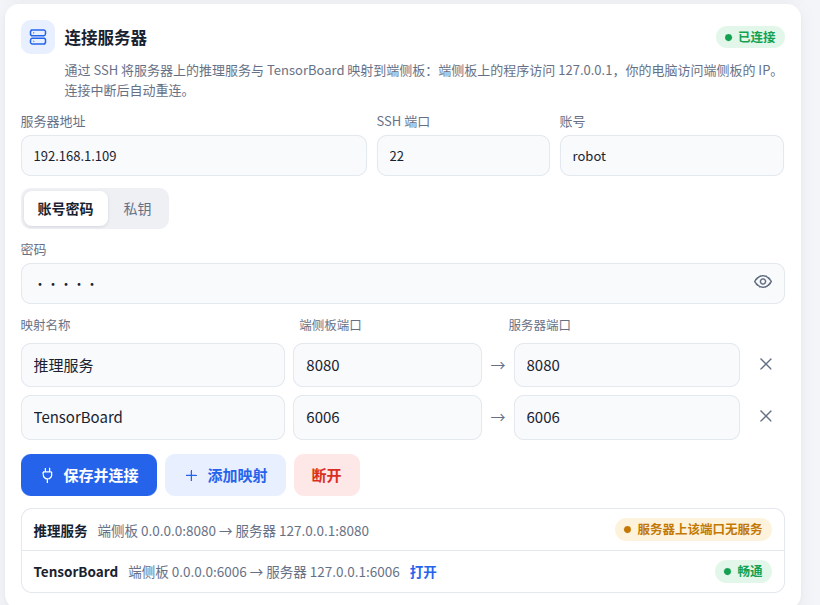
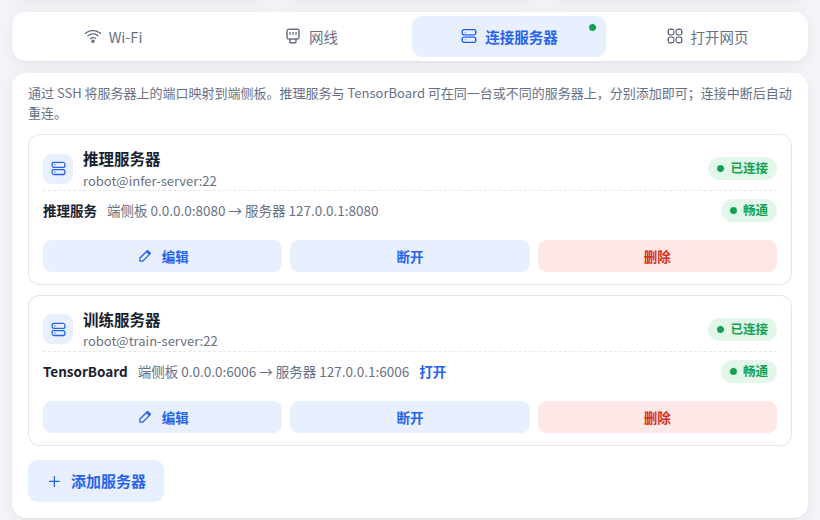
docs: 端侧板章节按分页配网页、多台服务器与有线默认地址 192.168.50.1 更新
- board.md：配网页改为分页（Wi-Fi / 网线 / 连接服务器 / 打开网页）；1.4 连接训练电脑支持多台服务器（推理与 TensorBoard 可在不同机器）；有线默认 192.168.50.1/24；VS Code / Jupyter 换新示例
- index.md：展示条目改为「连接一台或多台训练电脑」
- train-env.md：两台机器分开时两边都开 SSH
- 截图全部按真板重拍

diff --git a/docs/board.md b/docs/board.md
@@ -7,6 +7,7 @@
 | 网址 | 用途 | 可打开的时机 |
 | --- | --- | --- |
 | `http://10.42.0.1` | 网络设置：连接 Wi-Fi、设置网线、连接训练电脑、查看 IP | 已连接端侧板热点时 |
+| `http://192.168.50.1:8001` | 同一个网络设置页，网线直连电脑时使用 | 网线为出厂设置时，见 [1.3 节](#board-network) |
 | `http://<端侧板IP>:8001` | 同一个网络设置页 | 端侧板开机后 |
 | `http://<端侧板IP>:8002` | 网页终端 | 服务开启时 |
 | `http://<端侧板IP>:8003` | JupyterLab | 服务开启时 |
@@ -17,7 +18,7 @@
 | `http://<端侧板IP>:6006` | 训练电脑上的 TensorBoard：训练曲线 | 端侧板已连接训练电脑时，见 [1.4 节](#connect-server) |
 | `http://<端侧板IP>:9090` | 录制预览：相机画面与关节曲线 | 录制数据期间 |
 
-8002 至 8006 默认全部开启，可用 `xbotics-config` 开关，见 [1.7 节](#xbotics-config)。端侧板的用户名是 `root`，默认密码是 `123456`，网页终端、JupyterLab、VS Code 与 SSH 均使用该密码。请只在自己的局域网中使用端侧板，不要将这些端口映射到公网。
+局域网中也可以用 `xbotics-XXXX.local` 代替 IP（后四位与热点名相同）。8002 至 8006 默认全部开启，可用 `xbotics-config` 开关，见 [1.7 节](#xbotics-config)。端侧板的用户名是 `root`，默认密码是 `123456`，网页终端、JupyterLab、VS Code 与 SSH 均使用该密码。请只在自己的局域网中使用端侧板，不要将这些端口映射到公网。
 
 ## 1.1 烧写镜像
 
@@ -87,45 +88,53 @@ xbotics-config update
 
 它将 LeRobot 更新到最新版本，再按新版重新安装端侧板上的其余内容，只修改有变化的部分。网页服务的开关、修改过的密码、你自行用 `uv add` 安装的包都会保留。也可以在网页终端或 VS Code 的终端中执行：需要重启这些服务时，会在升级完成后再重启，页面短暂断开，刷新即可。训练电脑需同步升级，见 [2.7 节](#train-env-upgrade)。
 
+(board-network)=
 ## 1.3 配网
 
 端侧板始终开启一个热点，名称为 `Xbotics-` 加四位字符（每块端侧板不同），无需密码。电脑或手机连接该热点后，会弹出「星禾套件 · 网络设置」页；如未弹出，在浏览器中打开 `http://10.42.0.1`。如果提示「此网络无法访问互联网」，请选择保持连接：该热点仅供此页面使用，本身不连通外网。
 
-页面顶部的三块信息每两秒刷新一次，右上角的标签显示状态：网线与 Wi-Fi 为绿色「可访问外网」、橙色「无法访问外网」或红色「未连接」，下方为获得的地址；本热点显示热点的名称与地址。在手机上打开时为单列，在电脑上打开时三块并排。
+页面顶部的三块状态卡每两秒刷新一次，右上角的标签显示状态：网线与 Wi-Fi 为绿色「可访问外网」、橙色「无法访问外网」或红色「未连接」，下方为获得的地址；本热点显示热点的名称与地址。状态卡下方是「Wi-Fi」「网线」「连接服务器」「打开网页」四个标签，一次显示一项设置；网址末尾的 `#wifi`、`#wired`、`#server`、`#open` 可直接打开对应标签，例如 `http://10.42.0.1/#server`。
 
-![网络设置页（在电脑上打开）](images/use-08-network-page.png)
+![网络设置页（在电脑上打开，「Wi-Fi」标签，周边网络的名称已遮挡）](images/use-08-network-page.png)
 
-**连接 Wi-Fi：** 点击「扫描附近的 Wi-Fi」，列表按信号强弱排序，右侧格数表示信号强度，带锁的需要密码。选择你的 Wi-Fi，填写密码（右侧的眼睛图标可显示密码），点击「连接」。屏幕底部显示 `已连接 …，地址 …` 即表示成功，点击该提示可将其关闭。连接过程中热点不会中断，页面保持打开；密码错误时会给出提示，已保存的 Wi-Fi 不受影响。连接过的 Wi-Fi 列在「已保存」中，端侧板开机后自动连接；不再需要时，点击名称旁的 ×。标有「需账号登录，暂不支持」的网络需要用户名登录，目前无法连接。
+**连接 Wi-Fi：** 在「Wi-Fi」标签中点击「扫描附近的 Wi-Fi」，列表按信号强弱排序，右侧格数表示信号强度，带锁的需要密码。选择你的 Wi-Fi，填写密码（右侧的眼睛图标可显示密码），点击「连接」。屏幕底部显示 `已连接 …，地址 …` 即表示成功，点击该提示可将其关闭。连接过程中热点不会中断，页面保持打开；密码错误时会给出提示，已保存的 Wi-Fi 不受影响。连接过的 Wi-Fi 列在「已保存」中，端侧板开机后自动连接；不再需要时，点击名称旁的 ×。标有「需账号登录，暂不支持」的网络需要用户名登录，目前无法连接。
 
-![在手机上扫描到的 Wi-Fi 列表（周边网络的名称已遮挡）](images/use-09-network-wifi.png){width=320px}
+![在手机上打开：状态卡收为一行，下方为 Wi-Fi 列表（名称已遮挡）](images/use-09-network-wifi.png){width=320px}
 
-**设置网线：** 出厂设置为固定 IP，地址 `192.168.1.50`、网关 `192.168.1.1`。如果你的路由器恰好是 `192.168.1.x` 网段，接上网线即可使用。若不是该网段，点击「自动获取（DHCP）」，或点击「固定 IP」并填写你所在网络的地址、前缀长度、网关与 DNS，再点击「保存」；哪一项填写有误，页面会直接指出。如果是通过网线打开的本页面，保存时连接会短暂中断；改为固定 IP 后需使用新地址打开。
+**设置网线：** 出厂设置为固定 IP `192.168.50.1`（前缀长度 24，不设网关），用于网线直连电脑：用网线将端侧板与电脑直接相连，把电脑的有线网卡设为固定 IP `192.168.50.x`（如 `192.168.50.2`，前缀长度 24），即可打开 `http://192.168.50.1:8001`。端侧板接入路由器使用时，在「网线」标签中点击「自动获取（DHCP）」，或点击「固定 IP」并填写你所在网络的地址、前缀长度、网关与 DNS，再点击「保存」；哪一项填写有误，页面会直接指出。如果是通过网线打开的本页面，保存时连接会短暂中断；改为固定 IP 后需使用新地址打开。（v2 及更早的出厂镜像，网线默认为 `192.168.1.50`、网关 `192.168.1.1`。）
 
-**从你的网络中打开端侧板：** 端侧板联网后，页面上「从你的网络中打开」一栏列出六个网页。上方一排是端侧板的各个地址，选择哪个地址，下方的链接就使用哪个地址。将电脑切换回你自己的 Wi-Fi 或网线，再点击这些链接。带 `.local` 的地址需要电脑支持此类名称，无法打开时请选择 IP 地址。
+**从你的网络中打开端侧板：** 端侧板联网后，「打开网页」标签列出六个网页。上方一排是端侧板的各个地址，选择哪个地址，下方的链接就使用哪个地址。将电脑切换回你自己的 Wi-Fi 或网线，再点击这些链接。带 `.local` 的地址需要电脑支持此类名称，无法打开时请选择 IP 地址。连接服务器后，这里还会列出经隧道映射过来的 TensorBoard 等网页。
+
+![「打开网页」标签：最后一项是经隧道映射过来的 TensorBoard](images/use-19-open-pages.png)
 
 (connect-server)=
 ## 1.4 连接训练电脑
 
-推理服务与训练曲线都在训练电脑上。在网络设置页的「连接服务器」一栏连接训练电脑后，端侧板会将训练电脑上的端口映射到本机。训练电脑需先开启 SSH 服务，见 [2.5 节](#train-env-ssh)。
+推理服务与训练曲线都在训练电脑上，二者可以在同一台电脑上，也可以在不同的电脑上（例如推理用一台，训练用另一台）。在网络设置页的「连接服务器」标签中，每台电脑分别添加为一台服务器，端侧板会把它们的端口映射到本机。每台电脑都需先开启 SSH 服务，见 [2.5 节](#train-env-ssh)。
 
-1. 填写三项：**服务器地址**（训练电脑的 IP）、**SSH 端口**（通常为 22）、**账号**（训练电脑上的用户名）。
+1. 点击「添加服务器」，填写**名称**（便于区分，如「推理服务器」「训练服务器」）、**服务器地址**（电脑的 IP）、**SSH 端口**（通常为 22）、**账号**（电脑上的用户名）。
 2. 选择登录方式：**账号密码**，填写该账号的密码；**私钥**，将私钥完整粘贴进去（从 `-----BEGIN` 行到 `-----END` 行），或点击「选择文件」，私钥带口令时填写在下方。
-3. 下方为要映射的端口，默认两条，一般无需修改：
+3. 在表单下方点击这台电脑提供的服务，添加映射：
 
-| 映射名称 | 端侧板端口 | 训练电脑上的端口 | 用途 |
+| 按钮 | 端侧板端口 | 电脑上的端口 | 用途 |
 | --- | --- | --- | --- |
-| 推理服务 | 8080 | 8080 | 部署时端侧板上的程序连接它 |
-| TensorBoard | 6006 | 6006 | 查看训练曲线 |
+| 推理服务（8080） | 8080 | 8080 | 部署时端侧板上的程序连接它 |
+| TensorBoard（6006） | 6006 | 6006 | 查看训练曲线 |
+| 其他端口 | 自行填写 | 自行填写 | 映射电脑上的其他服务 |
 
-4. 点击「保存并连接」。几秒后右上角变为绿色「已连接」，下方每条映射标出状态：「畅通」表示训练电脑上该端口有服务响应；「服务器上该端口无服务」表示连接已建立，只是训练电脑上尚未启动该服务。
+同一个端侧板端口只能被一台服务器映射，重复时页面会直接指出。
 
-![已连接训练电脑：TensorBoard 畅通，推理服务尚未启动](images/use-16-connect-server.png)
+![添加服务器：填写名称、地址、账号与密码，点击下方按钮添加映射](images/use-18-add-server.png)
 
-连接后，端侧板上的程序访问 `127.0.0.1:8080`，即访问训练电脑的推理服务；在任意一台电脑上打开 `http://<端侧板IP>:6006`，即为训练电脑上的 TensorBoard，也可以点击映射旁的「打开」。网络中断或训练电脑重启后，端侧板会自动重新连接；端侧板重启后也会自动连接。不再使用时点击「断开」，此后开机不再自动连接。
+4. 点击「保存并连接」。几秒后这台服务器的卡片右上角变为绿色「已连接」，每条映射标出状态：「畅通」表示电脑上该端口有服务响应；「服务器上该端口无服务」表示连接已建立，只是电脑上尚未启动该服务。
 
-连接失败时，页面以中文给出原因：「登录被拒」表示账号、密码或私钥不正确，此时端侧板不会用错误的密码反复重试（反复重试可能导致服务器锁定该账号），修改后再次点击「保存并连接」；「私钥口令不对」「私钥格式不对」，请检查口令，或重新粘贴完整私钥；「服务器指纹已变化」表示训练电脑重新安装过系统，再次点击「保存并连接」即可重新识别；「找不到该服务器地址」「连不上服务器」表示地址填写错误，或端侧板所在网络无法访问这台电脑；「服务器不允许端口转发」需要在训练电脑的 `/etc/ssh/sshd_config` 中设置 `AllowTcpForwarding yes`。
+![两台服务器：推理服务器与训练服务器均已连接，各自的映射畅通](images/use-16-connect-server.png)
 
-![在电脑上经端侧板打开训练电脑上的 TensorBoard](images/use-17-tensorboard.png)
+连接后，端侧板上的程序访问 `127.0.0.1:8080`，即访问推理服务器的推理服务；在任意一台电脑上打开 `http://<端侧板IP>:6006`，即为训练服务器上的 TensorBoard，也可以点击映射旁的「打开」。网络中断或电脑重启后，端侧板会自动重新连接；端侧板重启后也会自动连接。每张卡片可以「编辑」「断开」「删除」；断开后开机不再自动连接，点击「连接」即可恢复。
+
+连接失败时，卡片中以中文给出原因：「登录被拒」表示账号、密码或私钥不正确，此时端侧板不会用错误的密码反复重试（反复重试可能导致服务器锁定该账号），修改后再次点击「保存并连接」；「私钥口令不对」「私钥格式不对」，请检查口令，或重新粘贴完整私钥；「服务器指纹已变化」表示电脑重新安装过系统，再次点击「保存并连接」即可重新识别；「找不到该服务器地址」「连不上服务器」表示地址填写错误，或端侧板所在网络无法访问这台电脑；「服务器不允许端口转发」需要在电脑的 `/etc/ssh/sshd_config` 中设置 `AllowTcpForwarding yes`。
+
+![在电脑上经端侧板打开训练服务器上的 TensorBoard](images/use-17-tensorboard.png)
 
 ## 1.5 网页终端
 
@@ -149,7 +158,7 @@ xbotics-config update
 示例：在 `~/xbotics` 中新建 `check_board.py`，写入下面几行，点击 ▷。
 
 ```python
-"""板子自检：用的是哪个 Python、LeRobot 版本、四个固定名字各指向什么。"""
+"""端侧板自检：使用的 Python、LeRobot 版本，以及四个固定名字各指向的设备。"""
 
 import os
 import sys
@@ -160,7 +169,7 @@ print("Python:", sys.executable)
 print("LeRobot:", lerobot.__version__)
 for name in ("follower", "leader", "top", "wrist"):
     path = f"/dev/xbotics/{name}"
-    print(f"{path:24s}", "->", os.path.realpath(path) if os.path.exists(path) else "没插")
+    print(f"{path:24s}", "->", os.path.realpath(path) if os.path.exists(path) else "未连接")
 ```
 
 ![打开 check_board.py，点击 ▷ 运行，下方终端输出结果](images/use-07-vscode-run.png)
@@ -202,8 +211,8 @@ xbotics-config enable calibrate
 
 `status` 列出各服务是否开机自启、是否正在运行及其网址。`enable` 与 `disable` 后跟服务名：`terminal`、`jupyter`、`vscode`、`hardware-check`、`calibrate`，`all` 表示全部。
 
-![xbotics-config status：五个服务均已开启，连接训练电脑的隧道尚未设置](images/use-14-xbotics-config-status.png)
+![xbotics-config status：五个网页服务，以及已添加的两台服务器的隧道](images/use-14-xbotics-config-status.png)
 
-最后一行 `tunnel` 是 1.4 节连接训练电脑所用的隧道，在网络设置页上开关。
+最后几行 `tunnel@<编号>` 是 1.4 节添加的各台服务器的隧道，在网络设置页上添加与开关。
 
-如果在网页终端中关闭 `terminal`，页面会立即断开；需要重新开启时，在 VS Code 的终端中执行 `xbotics-config enable terminal`。不需要的服务可以关闭以节省内存：硬件检测、网页标定各占用约 0.3 GB。
+如果在网页终端中关闭 `terminal`，页面会在两秒后断开；需要重新开启时，在 VS Code 的终端中执行 `xbotics-config enable terminal`。不需要的服务可以关闭以节省内存：硬件检测、网页标定各占用约 0.3 GB。

diff --git a/docs/train-env.md b/docs/train-env.md
@@ -74,7 +74,7 @@ hf auth login
 (train-env-ssh)=
 ## 2.5 允许端侧板连接这台电脑
 
-端侧板通过 SSH 连接这台电脑（[1.4 节](#connect-server)），因此需先安装 SSH 服务，并记下这台电脑的 IP：
+端侧板通过 SSH 连接这台电脑（[1.4 节](#connect-server)），因此需先安装 SSH 服务，并记下这台电脑的 IP。推理与训练分在两台电脑上时，两台都按本节设置：
 
 ```bash
 sudo apt install -y openssh-server
